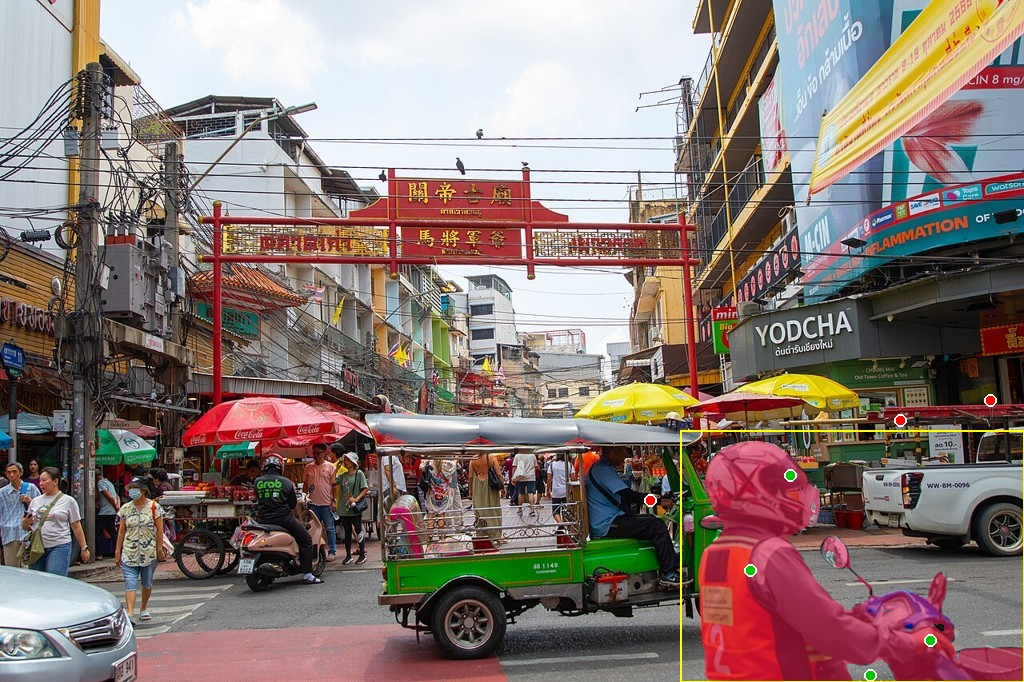
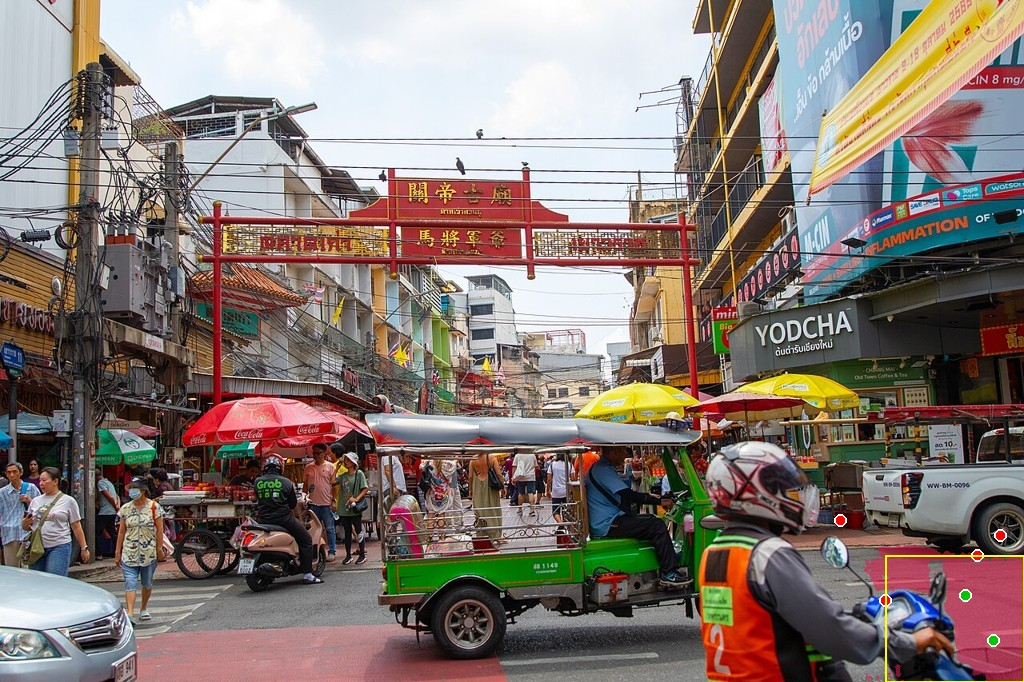
Refine SAM vehicle and rider masks

Changed region(s): [[0.6562, 0.6158, 1.0, 1.0], [0.625, 0.7082, 0.6562, 0.739]]

diff --git a/submission/REPORT.md b/submission/REPORT.md
@@ -65,14 +65,16 @@ Ba quy tắc giảm thiên kiến:
 
 ## 5. Mask SAM cho 3 vật (Part 5)
 
-| Ảnh | SAM (phiên bản) | Số click | Mask gồm người lái / hàng hóa? | Lỗi quan sát | File trong masks/ |
-|---|---|---|---|---|---|
-| `img_013` tuk-tuk | SAM 2.1 B (`sam2.1_b.pt`) | 6 (4 dương, 2 âm) | Có; mask gồm xe, người lái và hành khách | Mask gom nhiều cá thể thành một vùng; cần tách person khỏi xe theo contract | `masks/tuktuk_img013.jpg` |
-| `img_001` pickup | SAM 2.1 B (`sam2.1_b.pt`) | 6 (4 dương, 2 âm) | Không thấy người lái/hàng hóa trong vùng mask | Biên xe khá gọn, nền đường bên ngoài được loại; chưa đo IoU | `masks/pickup_img001.jpg` |
-| `img_002` motorbike | SAM 2.1 B (`sam2.1_b.pt`) | 7 (4 dương, 3 âm) | Có; mask gồm cả người lái và xe máy | Click âm chưa tách được người khỏi xe; một mask đang gộp hai đối tượng | `masks/motorbike_img002.jpg` |
+| Ảnh / đối tượng | SAM (phiên bản) | Số click | Kết quả và giới hạn | File trong masks/ |
+|---|---|---:|---|---|
+| `img_013` tuk-tuk (xe) | SAM 2.1 B (`sam2.1_b.pt`) | 13 (4 dương, 9 âm) | Mask xe đã loại phần lớn người nhìn thấy; rà lại biên mái và các thanh khung, chưa đo IoU. | `masks/tuktuk_img013.jpg` |
+| `img_013` người lái | SAM 2.1 B (`sam2.1_b.pt`) | 6 (3 dương, 3 âm) | Có mask riêng cho người lái; biên tại chỗ tiếp xúc ghế/xe vẫn cần kiểm tra. | `masks/tuktuk_driver_img013.jpg` |
+| `img_001` pickup | SAM 2.1 B (`sam2.1_b.pt`) | 6 (4 dương, 2 âm) | Biên xe khá gọn, nền ngoài xe được loại; chưa đo IoU. | `masks/pickup_img001.jpg` |
+| `img_002` motorbike (phần xe nhìn thấy) | SAM 2.1 B (`sam2.1_b.pt`) | 6 (2 dương, 4 âm) | Mask xe giới hạn vào phần xe lộ ra; phần bị người che không được đoán. | `masks/motorbike_img002.jpg` |
+| `img_002` người lái | SAM 2.1 B (`sam2.1_b.pt`) | 6 (3 dương, 3 âm) | Có mask riêng cho người lái; vùng tay tiếp xúc tay lái cần rà biên thủ công. | `masks/motorbike_rider_img002.jpg` |
 
-- Đối chiếu guideline mục 4.2: pickup cho thấy biên có thể bám theo vật; hai mask tuk-tuk và motorbike còn gộp người với xe, trong khi contract yêu cầu vật chạm nhau có polygon riêng. Cần thêm click âm/điều chỉnh prompt để tách, rồi kiểm tra lỗ và biên ở mức khoảng 3 px.
-- Interactor SAM trong CVAT: chưa có ghi chép cho một lần chạy bên trong CVAT; ba ảnh trên được tạo bằng `scripts/sam2_points.py` để mô phỏng click.
+- Đối chiếu guideline mục 4.2: người và phương tiện chạm nhau được lưu thành các mask riêng. Tuk-tuk và xe máy bị che khuất nên các mask chỉ mô tả vùng nhìn thấy; ảnh overlay là bằng chứng thao tác, không thay phép đo IoU hoặc bản polygon đã kiểm tra từng đỉnh.
+- Interactor SAM trong CVAT: chưa có ghi chép chạy bên trong CVAT; các mask trên được tạo bằng `scripts/sam2_points.py` với SAM 2.1 B trên CPU.
 
 ## 6. Calibration (Part 6)
 
